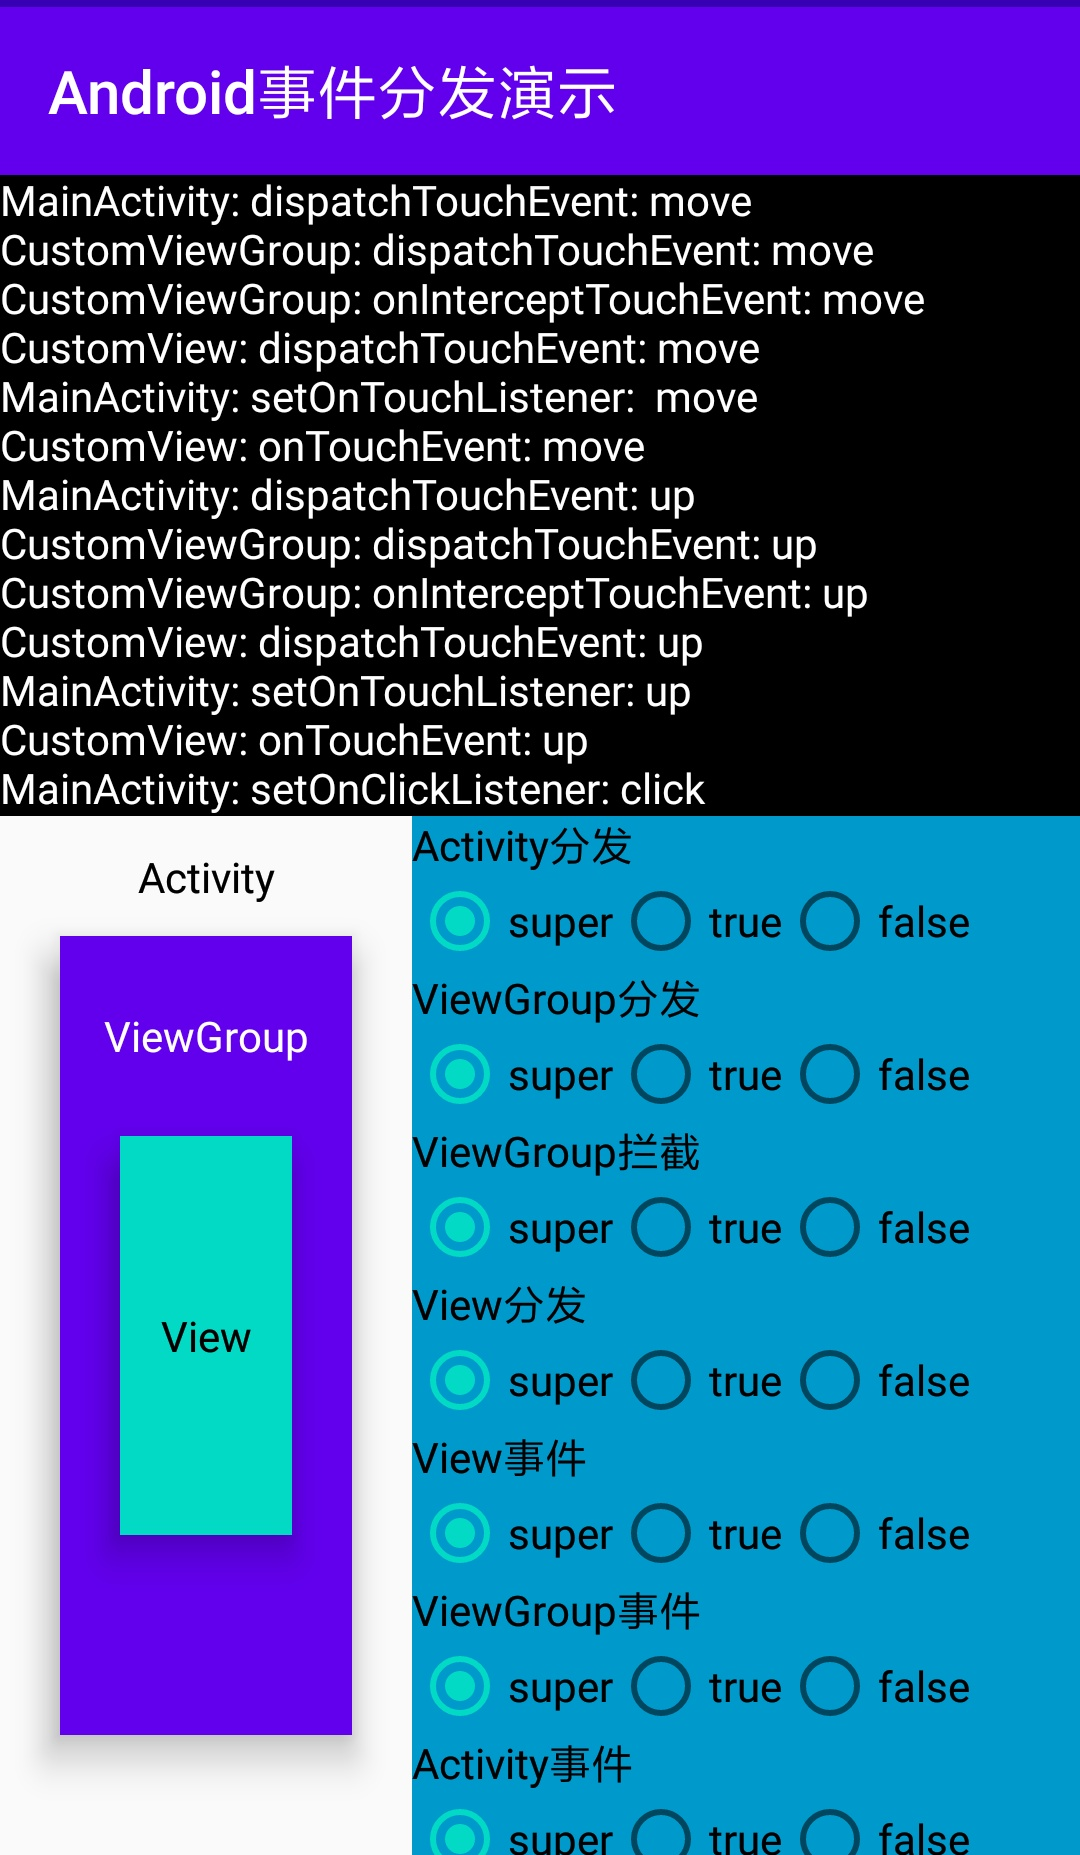
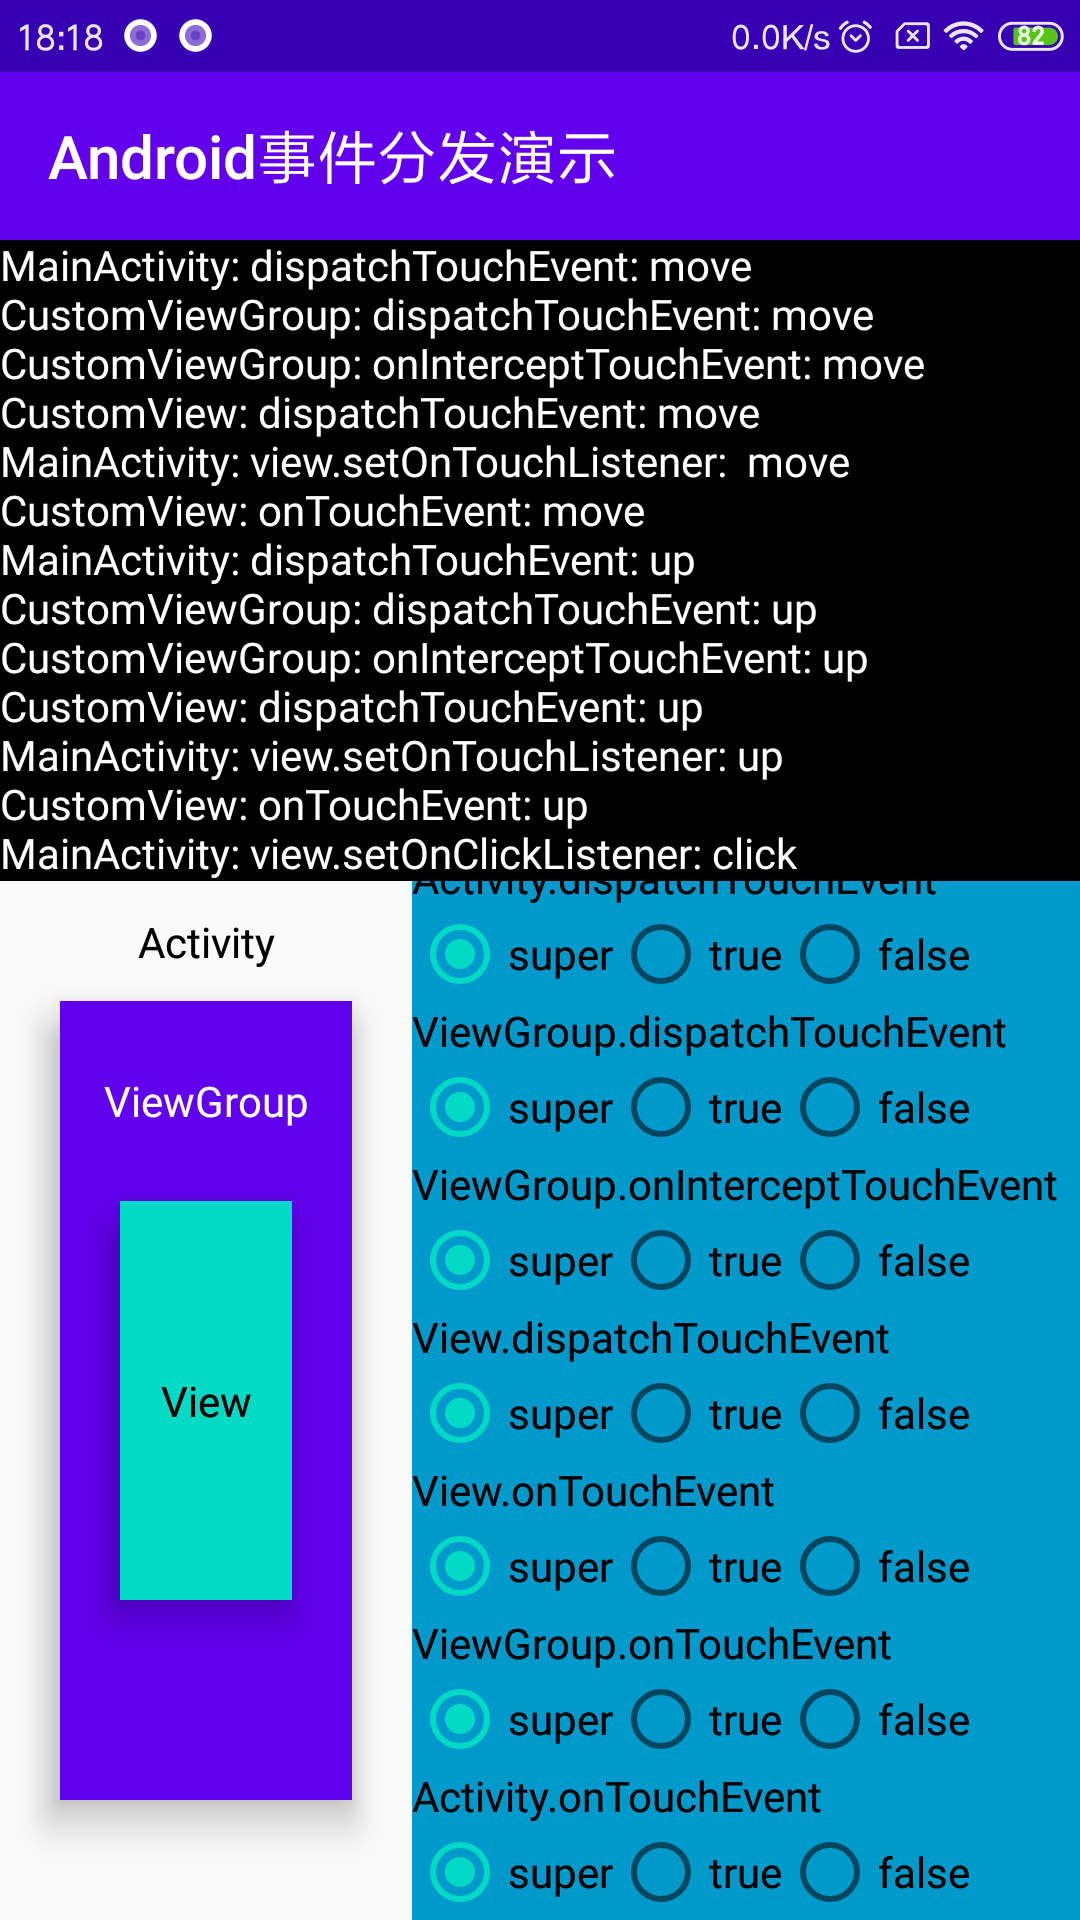
improve

diff --git a/app/src/main/java/xyz/zxmo/test/touch_event/MainActivity.java b/app/src/main/java/xyz/zxmo/test/touch_event/MainActivity.java
@@ -30,7 +30,7 @@ public class MainActivity extends AppCompatActivity {
         view.setOnClickListener(new View.OnClickListener() {
             @Override
             public void onClick(View v) {
-                MainActivity.sendLog(MainActivity.this, TAG, "setOnClickListener: click");
+                MainActivity.sendLog(MainActivity.this, TAG, "view.setOnClickListener: click");
             }
         });
 
@@ -43,13 +43,13 @@ public class MainActivity extends AppCompatActivity {
 
                 switch (event.getAction()) {
                     case MotionEvent.ACTION_DOWN:
-                        MainActivity.sendLog(MainActivity.this, TAG, "setOnTouchListener: down");
+                        MainActivity.sendLog(MainActivity.this, TAG, "view.setOnTouchListener: down");
                         break;
                     case MotionEvent.ACTION_MOVE:
-                        MainActivity.sendLog(MainActivity.this, TAG, "setOnTouchListener:  move");
+                        MainActivity.sendLog(MainActivity.this, TAG, "view.setOnTouchListener:  move");
                         break;
                     case MotionEvent.ACTION_UP:
-                        MainActivity.sendLog(MainActivity.this, TAG, "setOnTouchListener: up");
+                        MainActivity.sendLog(MainActivity.this, TAG, "view.setOnTouchListener: up");
                         break;
                     default:
                 }
@@ -59,7 +59,7 @@ public class MainActivity extends AppCompatActivity {
             }
         });
 
-        IntentFilter filter = new IntentFilter(getPackageName() + "log");
+        IntentFilter filter = new IntentFilter(getPackageName() + ".log");
         LocalBroadcastManager.getInstance(this).registerReceiver(broadcastReceiver, filter);
     }
 
@@ -77,6 +77,10 @@ public class MainActivity extends AppCompatActivity {
             String log = intent.getStringExtra("log");
             if (TextUtils.isEmpty(log)) {
                 return;
+            }
+            // 每次流程开始前清空日志
+            if (log != null && log.contains("START")) {
+                textView.setText(null);
             }
             String string = textView.getText().toString();
             if (!TextUtils.isEmpty(string)) {
@@ -99,7 +103,7 @@ public class MainActivity extends AppCompatActivity {
         }
 
         if (event.getAction() == MotionEvent.ACTION_DOWN) {
-            MainActivity.sendLog(this, TAG, "--- 流程开始 ---");
+            MainActivity.sendLog(this, TAG, "--- START ---");
         }
 
         switch (event.getAction()) {
@@ -127,11 +131,11 @@ public class MainActivity extends AppCompatActivity {
     }
 
     public static void sendLog(Context context, String tag, String log) {
-//        Log.e(tag, log);
+//        Log.d(tag, log);
 
         //测试设备没有root权限 不能直接通过adb获取logcat内容
 
-        Intent intent = new Intent(context.getPackageName() + "log");
+        Intent intent = new Intent(context.getPackageName() + ".log");
         intent.putExtra("log", tag + ": " + log);
         LocalBroadcastManager.getInstance(context).sendBroadcast(intent);
     }
